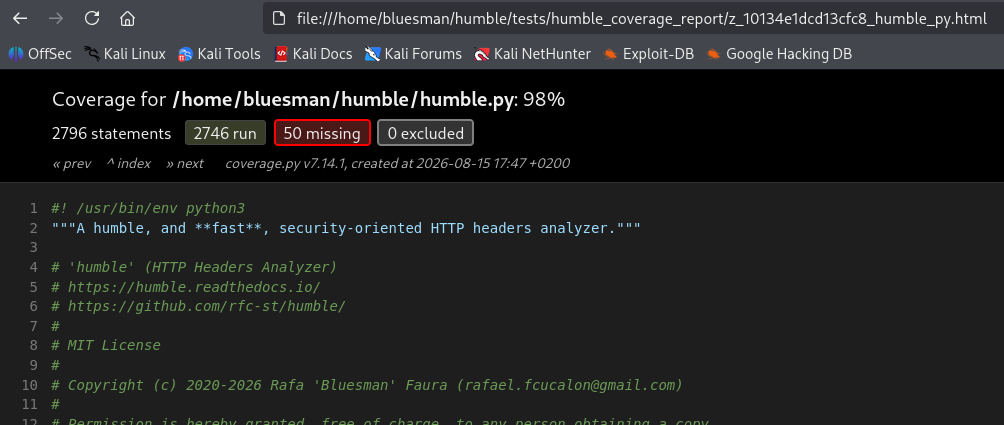
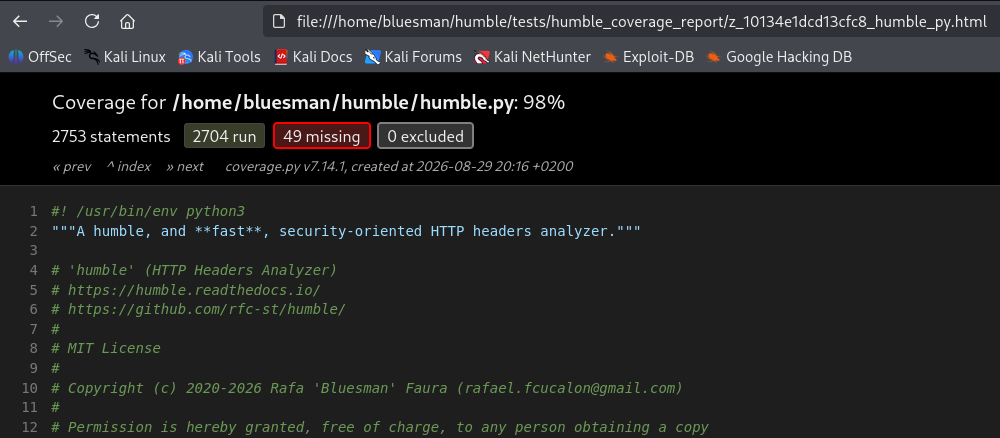
Minor: Screenshots updated

diff --git a/README.md b/README.md
@@ -380,7 +380,7 @@ $ sudo apt install --only-upgrade humble
 usage: humble.py [-h] [-a] [-b] [-c] [-cicd [GRADE]] [-df] [-e [TESTSSL_PATH]] [-f [FINGERPRINT_TERM]] [-g] [-grd] [-H REQUEST_HEADER] [-if INPUT_FILE] [-l {es}] [-lic]
                  [-o {all,csv,html,json,pdf,txt,xlsx,xml}] [-of OUTPUT_FILE] [-op OUTPUT_PATH] [-p PROXY] [-r] [-s [SKIP_HEADERS ...]] [-u URL] [-ua USER_AGENT] [-v]
 
-'humble' (HTTP Headers Analyzer) | https://github.com/rfc-st/humble | v.2026-08-22
+'humble' (HTTP Headers Analyzer) | https://github.com/rfc-st/humble | v.2026-08-29
 
 options:
   -h, --help                               show this help message and exit
